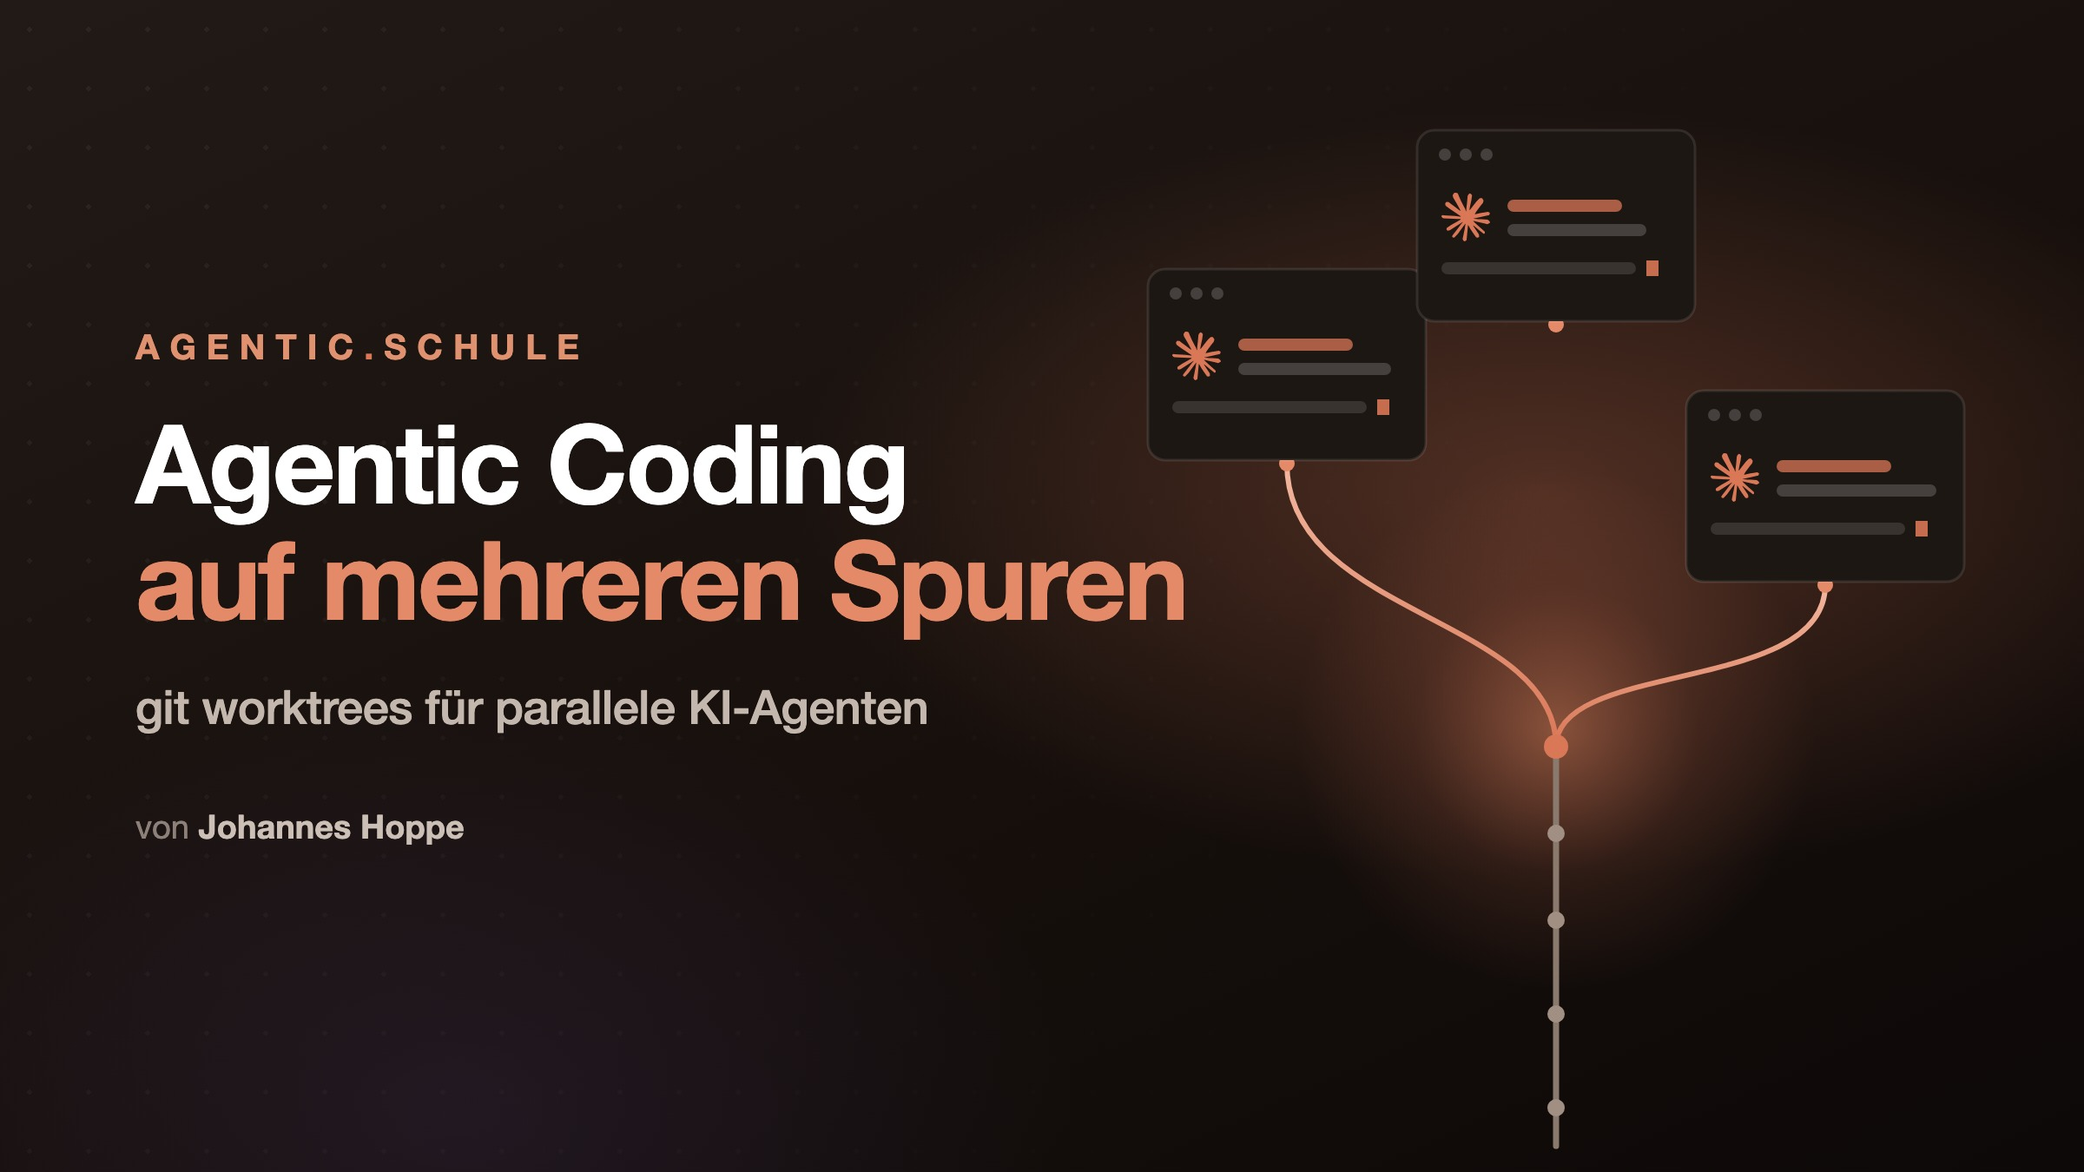
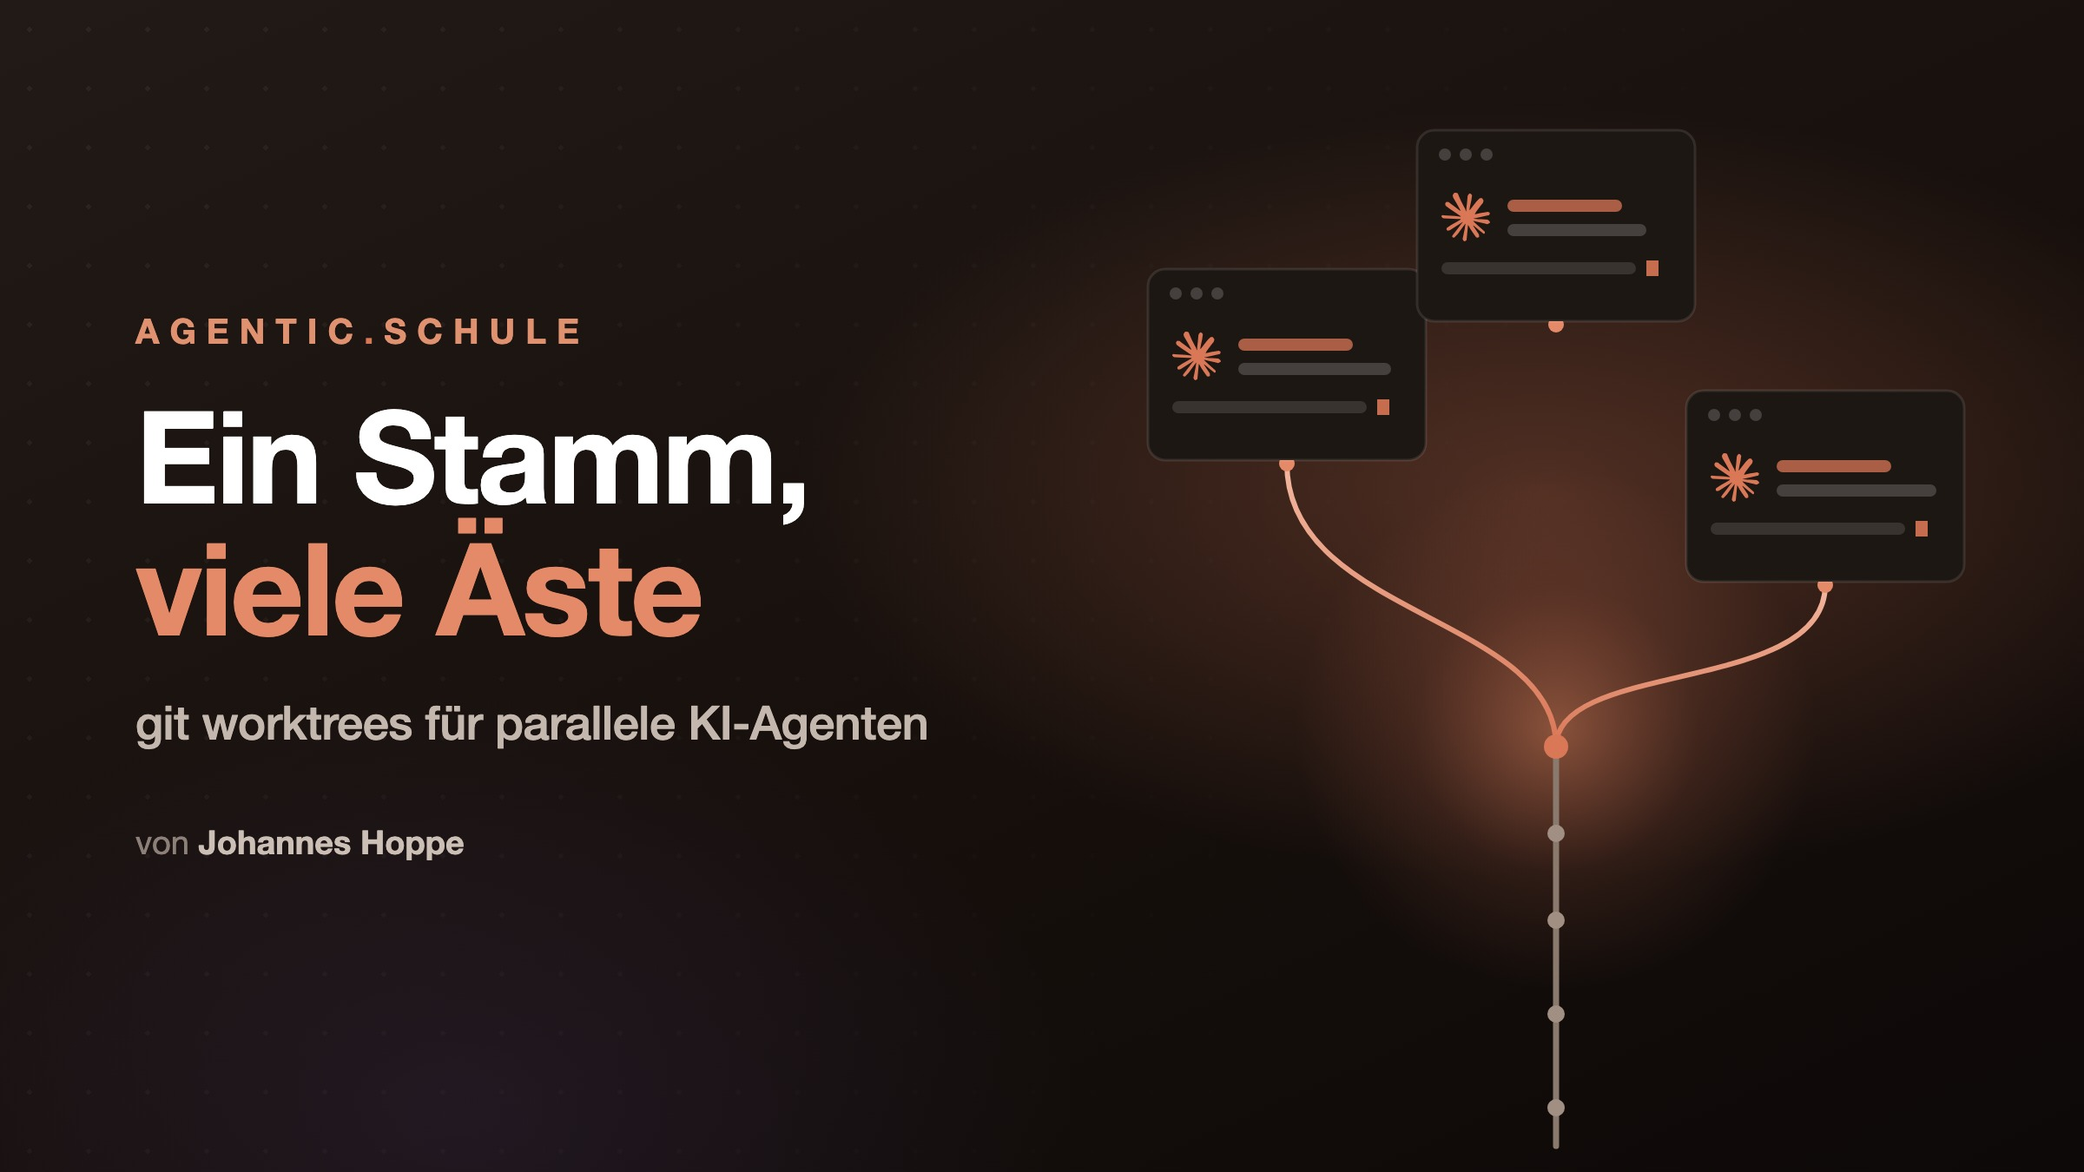
Metapher auf Baum umgestellt (Ein Stamm, viele Aeste), Bodenstation-Bezuege komplett entfernt, Header-Titel neu gerendert; tools/ mit eigenem package.json (playwright-core), damit render-header.mjs standalone laeuft

diff --git a/blog/2026-07-agentic-coding-git-worktrees-DE/header.src.html b/blog/2026-07-agentic-coding-git-worktrees-DE/header.src.html
@@ -21,7 +21,7 @@
   .left { width:620px; }
   .kicker { font-size:20px; letter-spacing:6px; font-weight:700; color:#e0916f; text-transform:uppercase; }
   .kicker .dot { color:#d97757; }
-  h1 { font-size:63px; line-height:1.06; font-weight:800; letter-spacing:-1.3px; margin:22px 0 0; }
+  h1 { font-size:74px; line-height:1.02; font-weight:800; letter-spacing:-1.5px; margin:22px 0 0; }
   h1 .accent { color:#e58a68; }
   .sub { margin-top:24px; font-size:27px; font-weight:500; color:#c3b7ae; letter-spacing:-.2px; }
   .by { margin-top:40px; font-size:19px; color:#8c8079; }
@@ -42,7 +42,7 @@
   <div class="wrap">
     <div class="left">
       <div class="kicker">agentic<span class="dot">.</span>schule</div>
-      <h1>Agentic&nbsp;Coding<br><span class="accent">auf mehreren Spuren</span></h1>
+      <h1>Ein&nbsp;Stamm,<br><span class="accent">viele Äste</span></h1>
       <div class="sub">git worktrees für parallele KI-Agenten</div>
       <div class="by">von <b>Johannes Hoppe</b></div>
     </div>

diff --git a/blog/2026-07-agentic-coding-git-worktrees-DE/README.md b/blog/2026-07-agentic-coding-git-worktrees-DE/README.md
@@ -1,5 +1,5 @@
 ---
-title: 'Agentic Coding auf mehreren Spuren: git worktrees für parallele Agenten'
+title: 'Ein Stamm, viele Äste: git worktrees für parallele KI-Agenten'
 author: Johannes Hoppe
 mail: johannes.hoppe@haushoppe-its.de
 bio: '<a href="https://agentic.schule"><img src="/img/logo-agentic-schule.png" alt="agentic.schule Logo" style="float: right; margin-left: 30px; margin-top: -10px; margin-right: 30px; max-width: 220px;"></a>Johannes Hoppe ist Trainer und Berater für moderne Web-Entwicklung. In den Workshops von <a href="https://angular.schule" style="text-decoration: underline;"><b>angular.schule</b></a> und <a href="https://agentic.schule" style="text-decoration: underline;"><b>agentic.schule</b></a> geht es praxisnah um Angular – und zunehmend um agentische Entwicklung mit KI-Agenten wie Claude Code.'
@@ -26,9 +26,9 @@ Agentic Coding hat einen eingebauten Widerspruch: Der Agent arbeitet selbststän
 
 **Die Lösung ist ein unscheinbares git-Bordmittel, das gerade zum wichtigsten Werkzeug der agentischen Arbeit aufsteigt: git worktrees. Jeder Agent bekommt ein eigenes Arbeitsverzeichnis auf einem eigenen Branch, und plötzlich laufen drei, vier Sessions parallel, ohne sich in die Quere zu kommen.**
 
-Dieser Artikel ist das Begleitstück zu [„Agentic Coding rund um die Uhr: Der Mac mini als Bodenstation"](https://agentic.schule/blog/2026-07-agentic-coding-mac-mini). Dort ging es darum, **wo** meine Agenten laufen: auf einer Maschine, die nie ausgeht. Diesmal geht es darum, **wie viele** gleichzeitig laufen können. Der Bodenstation-Artikel endete genau hier, mit dem Geständnis, dass die eigentliche Arbeit erst bei vielen parallelen Sessions mit ebenso vielen git worktrees beginnt.
+Dieser Artikel zeigt die Technik dahinter, den eingebauten Worktree-Support der agentischen Tools und den Init-Command, mit dem ich einen Feature-Branch samt Worktrees über zwei Repos aufspanne.
 
-> 🛣 Das Bild dazu ist simpel: Das Repository ist die Straße, jeder Worktree eine eigene Fahrspur. Auf jeder Spur fährt genau ein Agent, und keiner schert aus.
+> 🌳 Das Bild dazu ist simpel: Das Repository ist der Stamm, jeder Worktree ein eigener Ast. Auf jedem Ast arbeitet genau ein Agent, und keiner sägt am Ast des anderen.
 
 ## Inhalt
 
@@ -46,7 +46,7 @@ Mit einem klassischen Einzel-Checkout habe ich jetzt drei schlechte Optionen:
 
 Selbst ohne Notfall nervt der klassische Context-Switch: stash, checkout, `npm install`, weil der andere Branch andere Abhängigkeiten hat, die IDE indexiert neu. Wer so arbeitet, wechselt seltener, als gut wäre.
 
-Dazu kommt das Luxusproblem aus dem Bodenstation-Artikel: Frontier-Modelle mit ordentlich Reasoning sind gründlich, aber gemächlich. Kommandos wie `/code-review` laufen bei mir schon mal absurd lange. Die natürliche Reaktion: parallelisieren. Während Session eins das Review fährt, soll Session zwei das nächste Feature anfangen. Nur: Zwei Agenten im selben Arbeitsverzeichnis sind keine Parallelität, sondern ein Wettrennen um dieselben Dateien.
+Dazu kommt ein Luxusproblem: Frontier-Modelle mit ordentlich Reasoning sind gründlich, aber gemächlich. Kommandos wie `/code-review` laufen bei mir schon mal absurd lange. Die natürliche Reaktion: parallelisieren. Während Session eins das Review fährt, soll Session zwei das nächste Feature anfangen. Nur: Zwei Agenten im selben Arbeitsverzeichnis sind keine Parallelität, sondern ein Wettrennen um dieselben Dateien.
 
 Der naive Ausweg wäre, das Repo einfach mehrfach zu klonen. Das funktioniert, ist aber verschwenderisch (jede Kopie schleppt ihr eigenes `.git` mit, und gefetcht wird auch mehrfach) und vor allem unnötig: git hat für genau diesen Fall seit Jahren ein Bordmittel.
 
@@ -54,7 +54,7 @@ Der naive Ausweg wäre, das Repo einfach mehrfach zu klonen. Das funktioniert, i
 
 Ein [git worktree](https://git-scm.com/docs/git-worktree) ist ein zusätzliches Arbeitsverzeichnis desselben Repositories. Die git-Doku nennt den Checkout, den man beim Klonen bekommt, den *main worktree*. Alles, was man mit `git worktree add` dazustellt, sind *linked worktrees*. Alle teilen sich dasselbe `.git`, also die komplette Historie, alle Branches, alle Remotes und die Objektdatenbank. Eigenständig ist an jedem Worktree genau das, was den Arbeitszustand ausmacht: die ausgecheckten Dateien, ein eigener `HEAD` und ein eigener Index.
 
-Das hat zwei angenehme Konsequenzen. Erstens ist ein Worktree in Sekunden angelegt und ebenso schnell wieder entsorgt, es wird ja kein Repository kopiert, sondern nur ein Checkout erzeugt. Zweitens sehen sich die Worktrees gegenseitig: Ein Commit auf Spur A ist auf Spur B sofort im Log sichtbar, ein `git fetch` versorgt alle gemeinsam.
+Das hat zwei angenehme Konsequenzen. Erstens ist ein Worktree in Sekunden angelegt und ebenso schnell wieder entsorgt, es wird ja kein Repository kopiert, sondern nur ein Checkout erzeugt. Zweitens sehen sich die Worktrees gegenseitig: Ein Commit auf Ast A ist auf Ast B sofort im Log sichtbar, ein `git fetch` versorgt alle gemeinsam.
 
 > **🛠 Selbst nachbauen: die vier Kommandos, die man braucht**
 > ```bash
@@ -69,7 +69,7 @@ Das hat zwei angenehme Konsequenzen. Erstens ist ein Worktree in Sekunden angele
 > git worktree prune     # Verwaltungsreste von Hand gelöschter Worktrees aufräumen
 > ```
 
-Eine Regel muss man kennen: **Ein Branch kann immer nur in einem Worktree ausgecheckt sein.** Versucht man denselben Branch in zwei Worktrees zu öffnen, verweigert git das Kommando (wer es mit `--force` erzwingt, weiß hoffentlich, was er tut). Das ist keine Schikane, sondern Schutz: Zwei Checkouts desselben Branches würden sich gegenseitig Commits und Index zerschießen. Für unser Agenten-Szenario ist die Regel sogar ein Feature, denn sie erzwingt exakt das Modell, das wir wollen: eine Spur, ein Branch, ein Agent.
+Eine Regel muss man kennen: **Ein Branch kann immer nur in einem Worktree ausgecheckt sein.** Versucht man denselben Branch in zwei Worktrees zu öffnen, verweigert git das Kommando (wer es mit `--force` erzwingt, weiß hoffentlich, was er tut). Das ist keine Schikane, sondern Schutz: Zwei Checkouts desselben Branches würden sich gegenseitig Commits und Index zerschießen. Für unser Agenten-Szenario ist die Regel sogar ein Feature, denn sie erzwingt exakt das Modell, das wir wollen: ein Worktree, ein Branch, ein Agent.
 
 Zwei Dinge sollte man außerdem wissen:
 
@@ -237,59 +237,57 @@ Drei Anmerkungen dazu:
 
 ## Ports, Lizenzen, Datenbanken: die Fallstricke der Parallelität
 
-Die Worktrees stehen, zwei Agenten arbeiten auf zwei Spuren. Bleiben die Kollisionen, die nicht im Dateisystem passieren.
+Die Worktrees stehen, zwei Agenten arbeiten auf zwei Ästen. Bleiben die Kollisionen, die nicht im Dateisystem passieren.
 
 ### Abhängigkeiten sind pro Worktree fällig
 
-`node_modules` im Frontend, `bin/` und `obj/` im Backend: alles gitignored, also überall neu. Das kostet ein paar Minuten und ordentlich Plattenplatz. Es ist aber kein Bug, sondern der Sinn der Übung: Jede Spur hat exakt die Abhängigkeiten ihres Branches, nichts leakt zwischen den Features.
+`node_modules` im Frontend, `bin/` und `obj/` im Backend: alles gitignored, also überall neu. Das kostet ein paar Minuten und ordentlich Plattenplatz. Es ist aber kein Bug, sondern der Sinn der Übung: Jeder Ast hat exakt die Abhängigkeiten seines Branches, nichts leakt zwischen den Features.
 
 ### Kommerzielle Lizenzen, die node_modules patchen
 
 Der Fallstrick, der uns wirklich erwischt hat: [Kendo UI](https://www.telerik.com/kendo-angular-ui) legt seine Lizenz-Aktivierung als gepatchte Dateien unter `node_modules/@progress/kendo-licensing/` ab. Die Aktivierung lebt also im Installationsartefakt, nicht im Repo, und ein frischer Worktree beginnt bei null. Fairerweise: Findet Telerik den Key von selbst (als `telerik-license.txt` oder Umgebungsvariable), erledigt ein Postinstall-Script das gleich beim `npm install`. Bei uns kapselt ihn ein eigenes npm-Script, also heißt es: nach jedem `npm install` in jedem Worktree neu aktivieren, sonst rendern die Komponenten mit Wasserzeichen und Lizenz-Warnung. Die Lehre verallgemeinert sich gut: Was ein frisches `npm install` überschreibt oder vergisst, muss der Init-Command pro Worktree wiederherstellen.
 
-### Eigene Ports für jede Spur
+### Eigene Ports für jeden Ast
 
-Spätestens wenn zwei Spuren gleichzeitig *laufen* sollen, wird es eng: Beide Angular-Dev-Server wollen Port 4200, beide APIs denselben Port, beide Datenbank-Container sowieso. Meine Lösung ist unspektakulär, ein festes Port-Schema pro Spur:
+Spätestens wenn zwei Äste gleichzeitig *in Betrieb* sind, wird es eng: Beide Angular-Dev-Server wollen Port 4200, beide APIs denselben Port, beide Datenbank-Container sowieso. Meine Lösung ist unspektakulär, ein festes Port-Schema pro Ast:
 
-| Dienst | Hauptrepo | Spur 1 | Spur 2 |
+| Dienst | Hauptrepo | Ast 1 | Ast 2 |
 |---|---|---|---|
 | Angular Dev-Server | 4200 | 4201 | 4202 |
 | Backend-API | 5001 | 5011 | 5021 |
 | Datenbank | 1433 | 1434 | 1435 |
 
-Technisch ist das schnell verdrahtet: beim Frontend `ng serve --port 4201`, beim Backend die URL per Umgebungsvariable (`ASPNETCORE_URLS`), beim Datenbank-Container das Port-Mapping im Compose-File. Wichtig ist nur Konsequenz: Das Frontend einer Spur muss auch auf die API **derselben** Spur zeigen (Proxy-Konfiguration beziehungsweise environment-Datei), sonst testet man fröhlich gegen das falsche Backend und wundert sich über Geisterdaten. Und wer eine Spur bequem im Browser begutachten will: Der [nginx-Dev-Proxy aus dem Bodenstation-Artikel](https://agentic.schule/blog/2026-07-agentic-coding-mac-mini#die-arbeit-des-agenten-im-browser-ansehen) bindet jeden dieser Ports ohne Projekt-Konfiguration ins LAN.
+Technisch ist das schnell verdrahtet: beim Frontend `ng serve --port 4201`, beim Backend die URL per Umgebungsvariable (`ASPNETCORE_URLS`), beim Datenbank-Container das Port-Mapping im Compose-File. Wichtig ist nur Konsequenz: Das Frontend eines Astes muss auch auf die API **desselben** Astes zeigen (Proxy-Konfiguration beziehungsweise environment-Datei), sonst testet man fröhlich gegen das falsche Backend und wundert sich über Geisterdaten.
 
 ### Parallele E2E-Läufe
 
-Die Königsdisziplin. Zwei Testläufe auf einer gemeinsamen Datenbank sabotieren sich gegenseitig: Der eine räumt gerade die Testdaten ab, auf die der andere wartet. Wer parallel testen will, braucht getrennte Datenbank-Instanzen pro Spur, oder wenigstens sauber getrennte Daten-Buckets innerhalb einer Instanz. Mit dem Port-Schema von oben ist die getrennte Instanz meist der einfachere Weg: zweiten Container hochziehen, Port eintragen, fertig.
+Die Königsdisziplin. Zwei Testläufe auf einer gemeinsamen Datenbank sabotieren sich gegenseitig: Der eine räumt gerade die Testdaten ab, auf die der andere wartet. Wer parallel testen will, braucht getrennte Datenbank-Instanzen pro Ast, oder wenigstens sauber getrennte Daten-Buckets innerhalb einer Instanz. Mit dem Port-Schema von oben ist die getrennte Instanz meist der einfachere Weg: zweiten Container hochziehen, Port eintragen, fertig.
 
-> **⚠ Aufräumen ohne Angst:** `git worktree remove` verweigert den Dienst, solange im Worktree uncommittete Änderungen oder unversionierte Dateien liegen (erst `--force` überstimmt das). Und committete Arbeit hängt nicht am Worktree: Der Branch samt aller Commits, auch ungepushter, lebt im gemeinsamen Repo weiter. Verlieren kann man beim Aufräumen also nur, was nie committet wurde: vor dem `remove` kurz committen oder bewusst verwerfen, dann weg mit der Spur.
+> **⚠ Aufräumen ohne Angst:** `git worktree remove` verweigert den Dienst, solange im Worktree uncommittete Änderungen oder unversionierte Dateien liegen (erst `--force` überstimmt das). Und committete Arbeit hängt nicht am Worktree: Der Branch samt aller Commits, auch ungepushter, lebt im gemeinsamen Repo weiter. Verlieren kann man beim Aufräumen also nur, was nie committet wurde: vor dem `remove` kurz committen oder bewusst verwerfen, dann weg mit dem Ast.
 
-## Ein Vormittag auf drei Spuren
+## Ein Vormittag auf drei Ästen
 
 Zurück zu dem Vormittag vom Anfang, diesmal mit Worktrees:
 
-**Neun Uhr.** Claude Code startet das große Refactoring auf Spur 1, im Worktree `app-frontend-shop-4708-refactor`. Vierzig Dateien, Tests laufen mit, geschätzte Dreiviertelstunde.
+**Neun Uhr.** Claude Code startet das große Refactoring auf Ast 1, im Worktree `app-frontend-shop-4708-refactor`. Vierzig Dateien, Tests laufen mit, geschätzte Dreiviertelstunde.
 
-**Zehn nach neun.** Der Bug-Report: Produktion, falsche Preise im Warenkorb, sollte heute noch raus. Früher der Moment der drei schlechten Optionen. Heute tippe ich in einem neuen Terminal `/feature-init`, nenne das Feature `shop-4711-hotfix-prices`, und ein paar Minuten später stehen zwei frische Worktrees samt Abhängigkeiten und Lizenz bereit. Eine zweite Session bekommt den Bug. Spur 1 merkt davon nichts.
+**Zehn nach neun.** Der Bug-Report: Produktion, falsche Preise im Warenkorb, sollte heute noch raus. Früher der Moment der drei schlechten Optionen. Heute tippe ich in einem neuen Terminal `/feature-init`, nenne das Feature `shop-4711-hotfix-prices`, und ein paar Minuten später stehen zwei frische Worktrees samt Abhängigkeiten und Lizenz bereit. Eine zweite Session bekommt den Bug. Ast 1 merkt davon nichts.
 
-**Kurz vor zehn.** Der Fix ist da, die Tests sind grün, kurzer Blick auf Port 4202: Die Preise stimmen wieder. Commit, Push, Review, Merge. Das Refactoring auf Spur 1 läuft immer noch, ungestört.
+**Kurz vor zehn.** Der Fix ist da, die Tests sind grün, kurzer Blick auf Port 4202: Die Preise stimmen wieder. Commit, Push, Review, Merge. Das Refactoring auf Ast 1 läuft immer noch, ungestört.
 
-**Halb elf.** Das Refactoring ist durch und wartet auf Review. Ich könnte jetzt auf Spur 3 das nächste Feature starten. Ehrlicherweise lese ich stattdessen erst einmal Diffs: Spuren aufmachen ist billig geworden, Spuren verantworten nicht.
+**Halb elf.** Das Refactoring ist durch und wartet auf Review. Ich könnte jetzt auf einem dritten Ast das nächste Feature starten. Ehrlicherweise lese ich stattdessen erst einmal Diffs: Äste austreiben ist billig geworden, Äste verantworten nicht.
 
 ## Fazit: Isolation ist die Eintrittskarte
 
 Rückblickend ist die Erkenntnis fast banal: **Parallelität beginnt nicht beim Agenten, sondern beim Arbeitsverzeichnis.** Solange sich zwei Sessions einen Checkout teilen, ist alles andere Kosmetik. git worktrees lösen genau dieses Problem, mit Bordmitteln, in Sekunden, und die gesamte Branche hat das erkannt: lokal per Worktree, in der Cloud per Wegwerf-VM.
 
-Wo die eingebauten Features enden, nämlich an der Repo-Grenze, fängt ein selbstgebauter Init-Command an: ein Kommando, zwei Repos, ein Branch-Name, zwei Spuren, Abhängigkeiten und Lizenz inklusive. Das ist kein großes Engineering, nur eine Markdown-Datei. Aber sie verwandelt den lästigsten Teil des Multi-Repo-Alltags in eine einzige Frage: „Wie heißt das Feature?"
+Wo die eingebauten Features enden, nämlich an der Repo-Grenze, fängt ein selbstgebauter Init-Command an: ein Kommando, zwei Repos, ein Branch-Name, zwei Äste, Abhängigkeiten und Lizenz inklusive. Das ist kein großes Engineering, nur eine Markdown-Datei. Aber sie verwandelt den lästigsten Teil des Multi-Repo-Alltags in eine einzige Frage: „Wie heißt das Feature?"
 
 Ehrlich bleiben will ich auch diesmal:
 
 - **Parallelität ist kein Selbstzweck.** Drei Agenten erzeugen dreimal so viele Diffs, und irgendwer (ich) muss sie alle lesen. Das Review wird zum Flaschenhals, nicht die Rechenzeit.
-- **Der Mental Load bleibt.** Spurwechsel im Kopf sind anstrengender als Spurwechsel auf der Platte. Ich fahre selten mehr als zwei, drei Spuren gleichzeitig. Nicht weil die Technik nicht mehr hergäbe, sondern weil mein Kopf sonst nicht mehr sinnvoll reviewen kann.
+- **Der Mental Load bleibt.** Von Ast zu Ast springen ist im Kopf anstrengender als auf der Platte. Mehr als zwei, drei Äste gleichzeitig gönne ich mir deshalb selten. Nicht weil die Technik nicht mehr hergäbe, sondern weil mein Kopf sonst nicht mehr sinnvoll reviewen kann.
 - **Disziplin gehört dazu.** Deps installieren, Lizenz aktivieren, Ports zuweisen, am Ende aufräumen. Genau deshalb steckt all das im Init-Command und nicht in meinem Gedächtnis.
-
-Und wo laufen all diese Spuren am besten? Auf einer Maschine, die nie ausgeht. Wie meine Bodenstation aussieht, ein always-on Mac mini, an dem MacBook und Handy nur noch andocken, steht im Begleitartikel [„Agentic Coding rund um die Uhr: Der Mac mini als Bodenstation"](https://agentic.schule/blog/2026-07-agentic-coding-mac-mini). Die Bodenstation liefert die Rechenzeit, die Worktrees liefern die Spuren. Zusammen ergibt das ein Setup, in dem Agenten wirklich rund um die Uhr arbeiten.
 
 **Fragen, Feedback, eigene Worktree-Tricks?** Immer her damit, ich freue mich über jede Nachricht. Und wenn dir der Init-Command gefällt: Bau ihn nach. Er ist absichtlich so generisch gehalten, dass er in jedes Zwei-Repo-Setup passt.
 

diff --git a/README.md b/README.md
@@ -41,8 +41,8 @@ daneben) im jeweiligen Artikel-Ordner und werden zentral gerendert:
 node tools/render-header.mjs blog/<artikel-ordner>
 ```
 
-Ergebnis ist `header.jpg` (2400×1350). Voraussetzung: `playwright-core` und
-Google Chrome. Achtung: Der Build kopiert Artikel-Ordner komplett nach `dist/`,
+Ergebnis ist `header.jpg` (2400×1350). Voraussetzung: einmalig `cd tools && npm install`
+(holt `playwright-core`) und ein installierter Google Chrome. Achtung: Der Build kopiert Artikel-Ordner komplett nach `dist/`,
 die Quelldateien werden also mit veröffentlicht (harmlos, aber gut zu wissen).
 
 ## Lokal bauen
